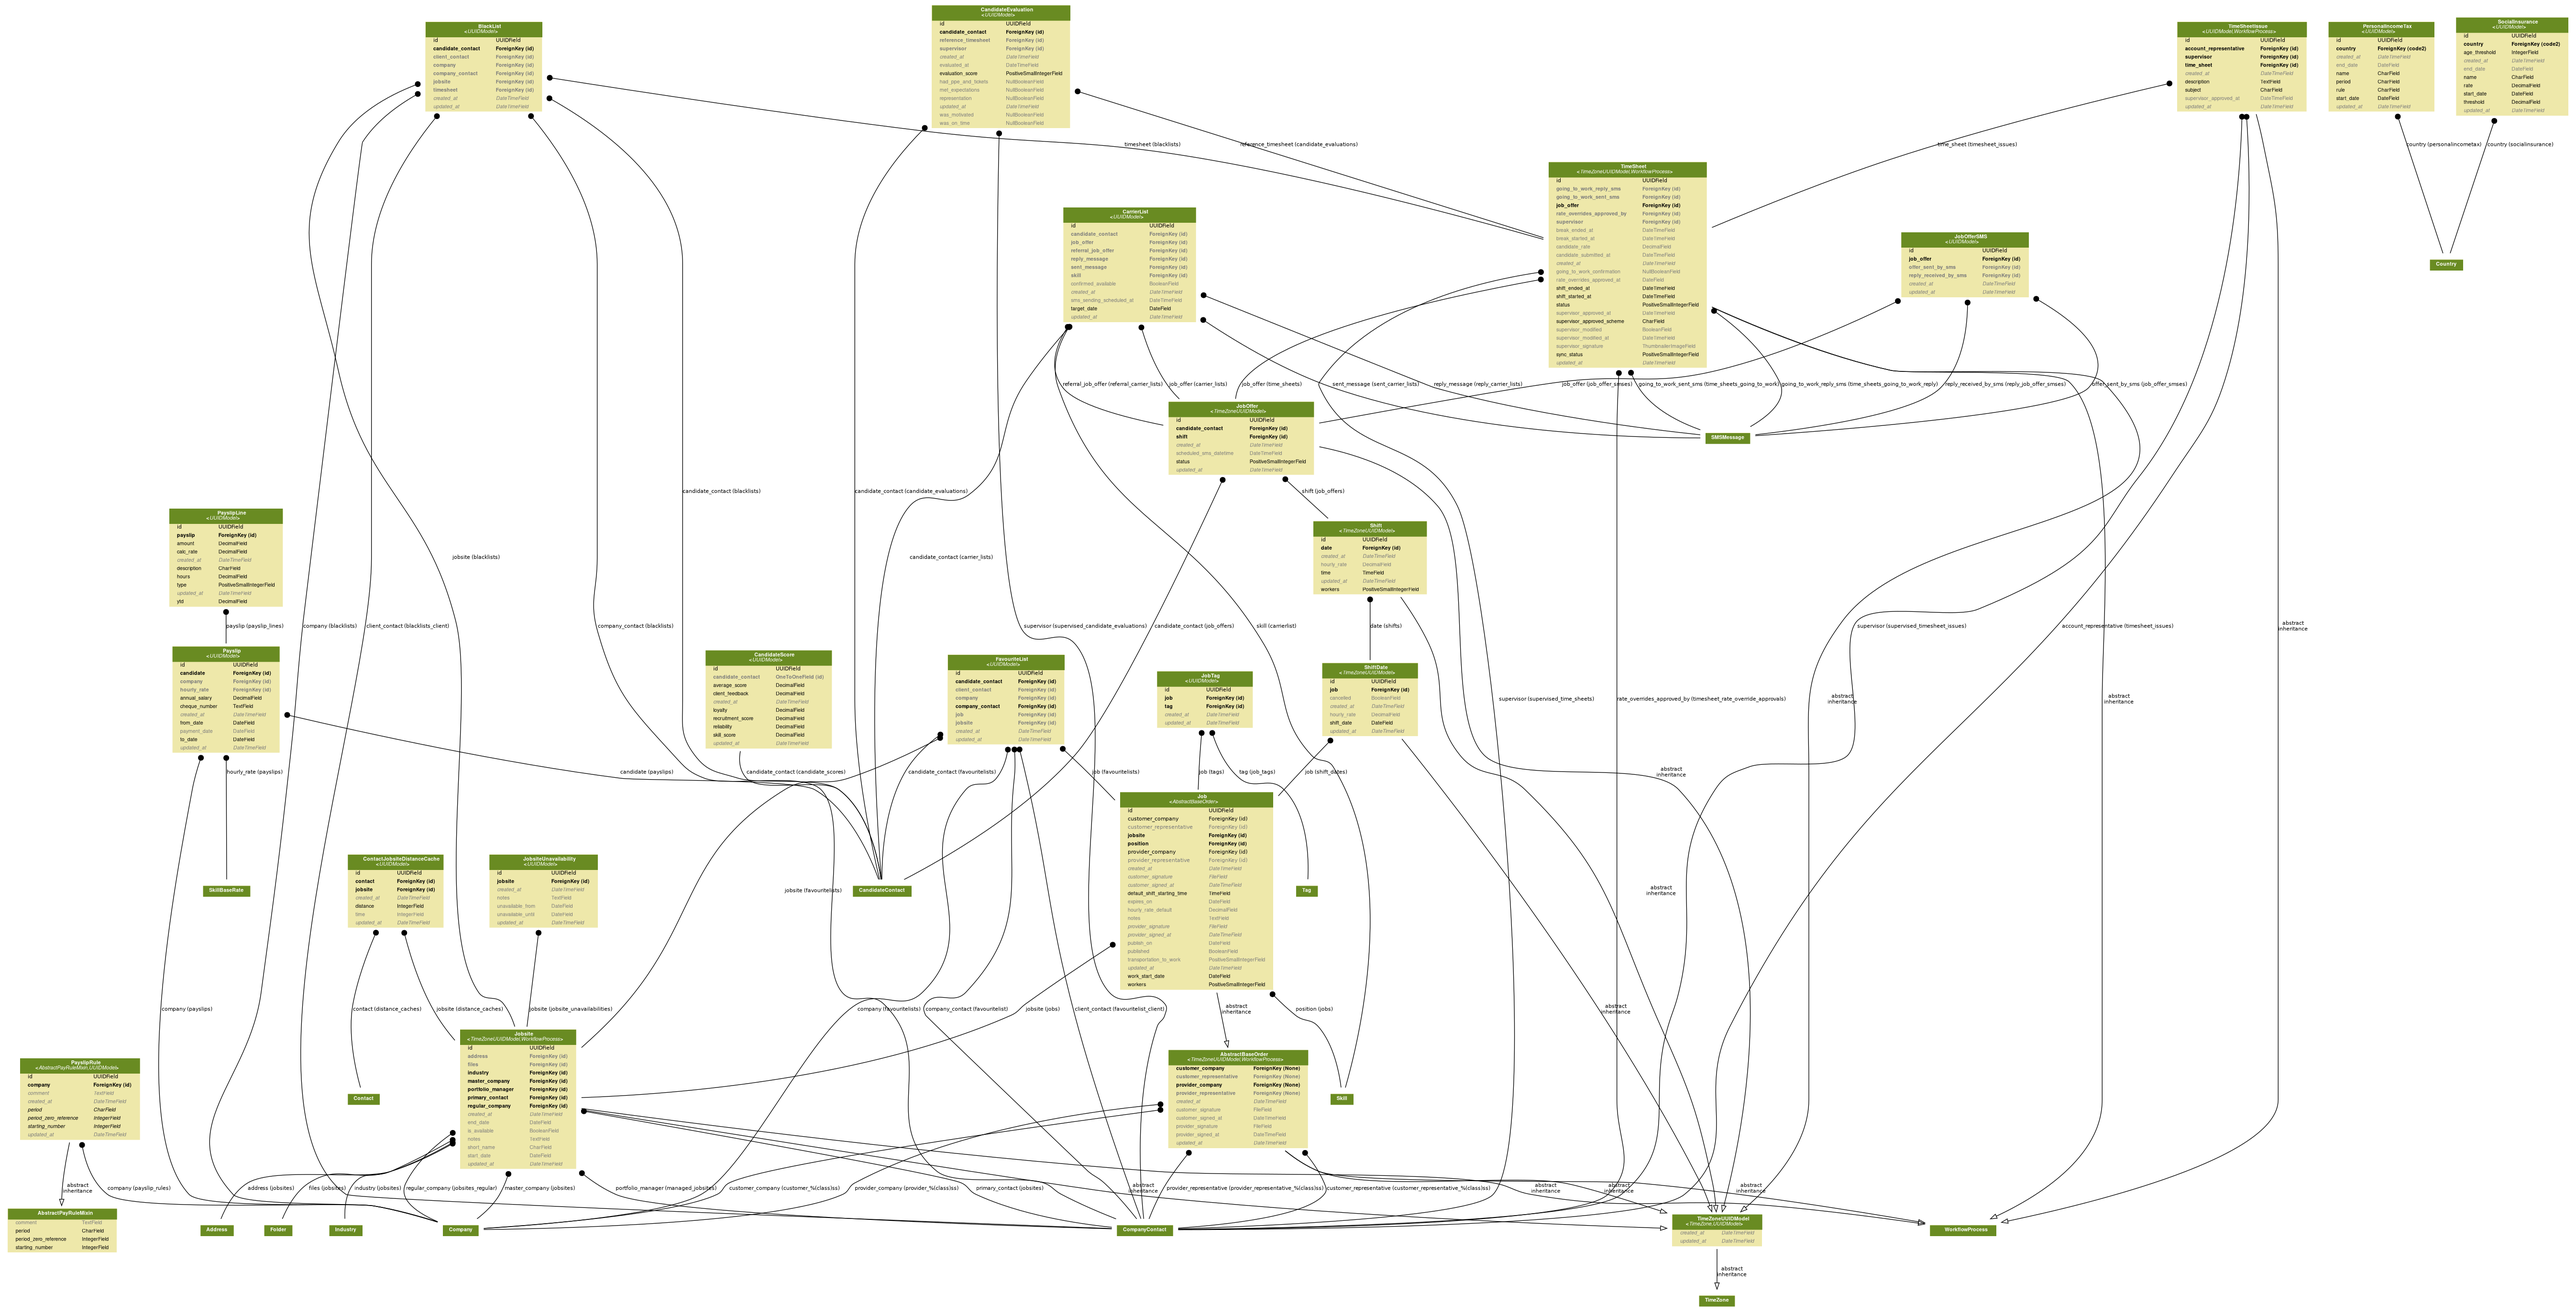
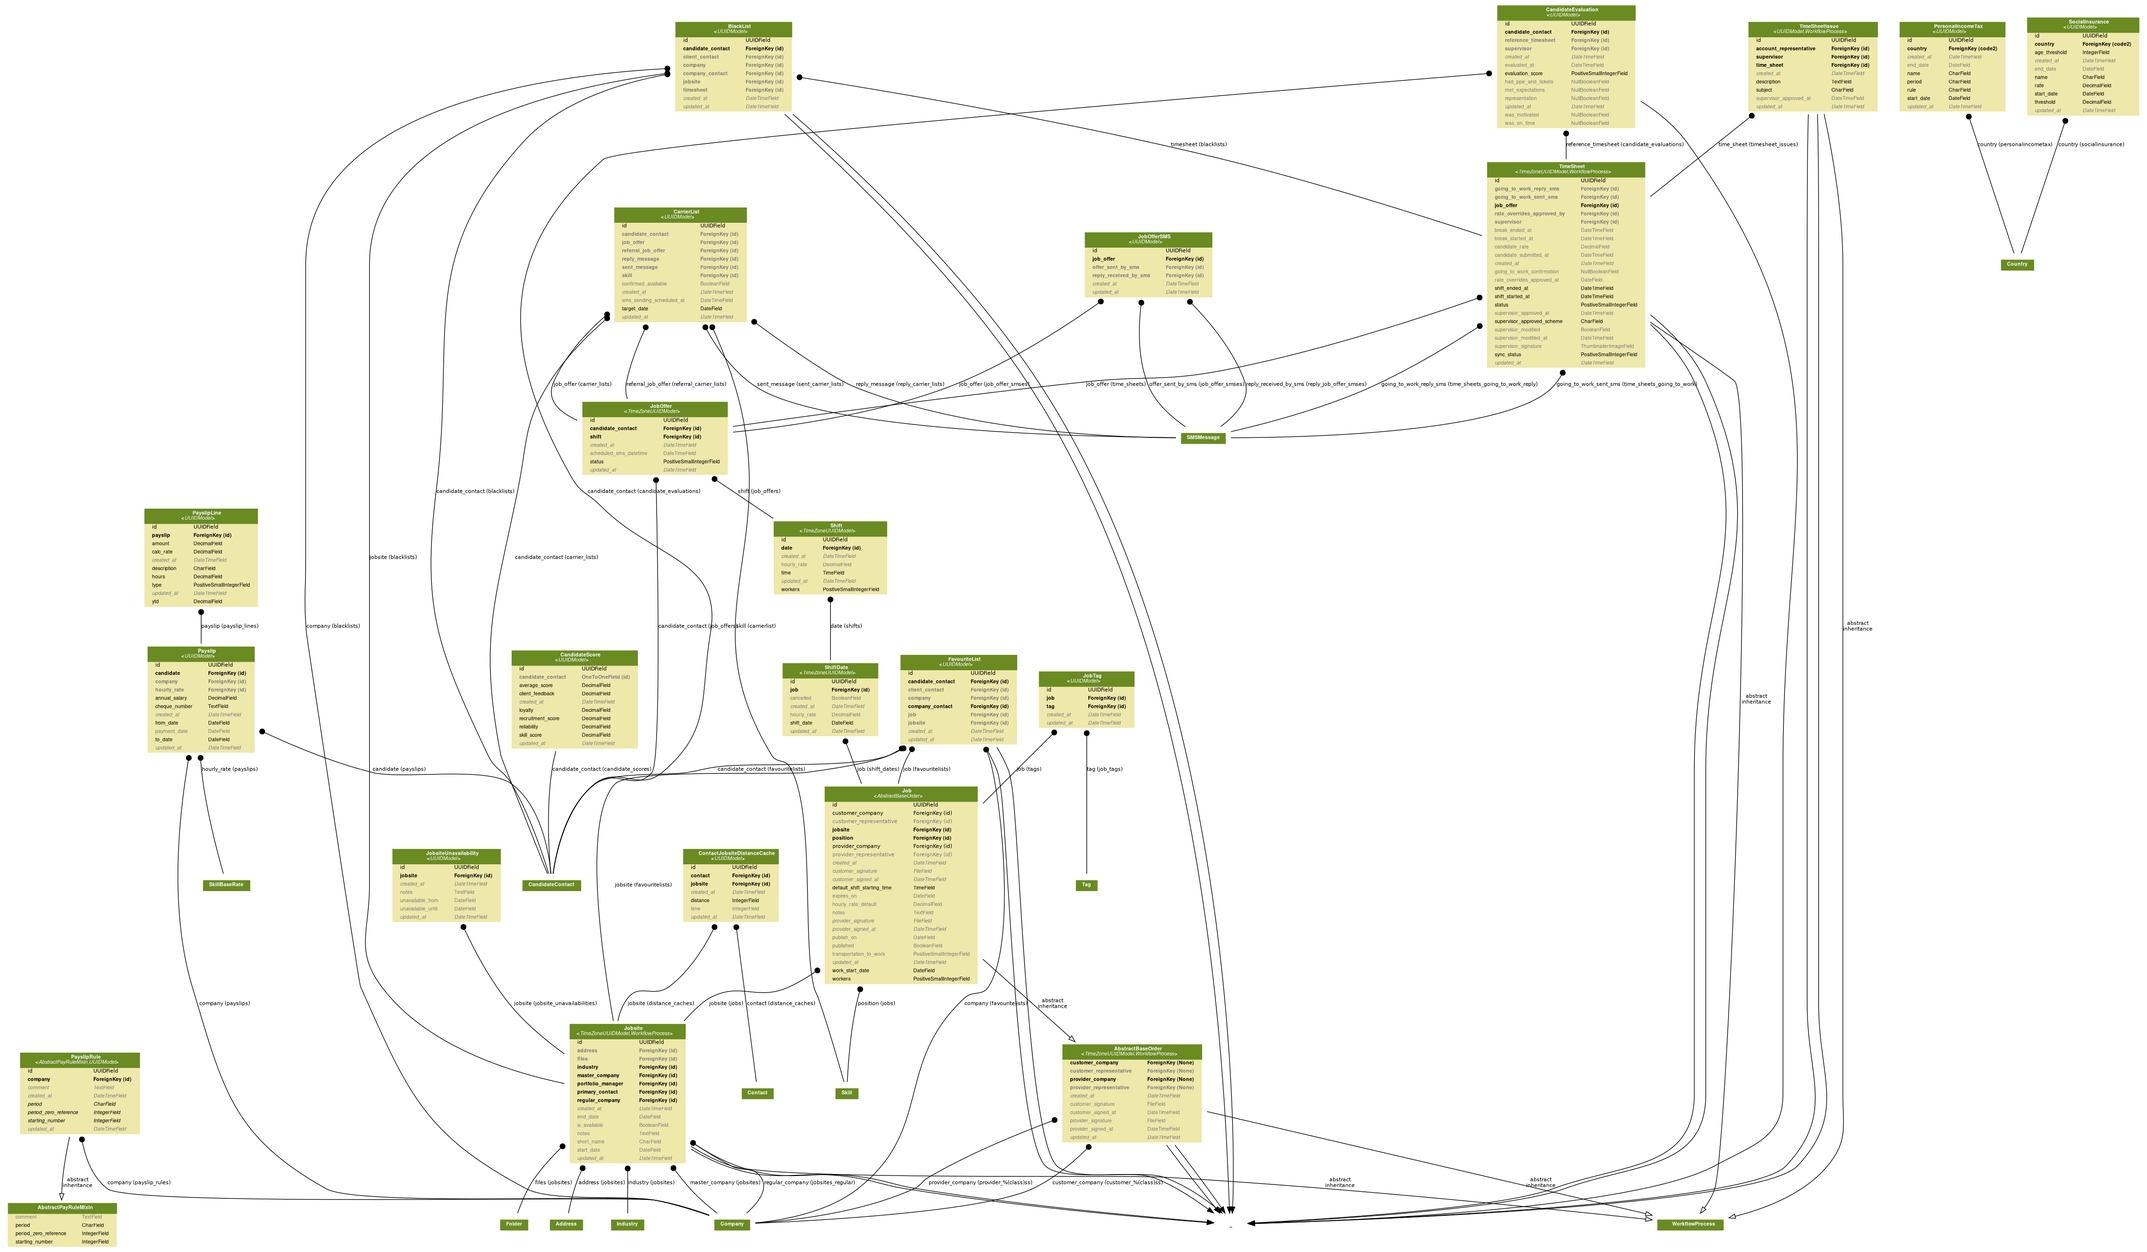
RV-1036 HR app changes

diff --git a/r3sourcer/apps/hr/api/serializers/job.py b/r3sourcer/apps/hr/api/serializers/job.py
@@ -159,7 +159,7 @@ class JobSerializer(core_mixins.WorkflowStatesColumnMixin, core_serializers.ApiB
                     'address': ['__all__'],
                 }],
                 'position': ['id', {'name': ('name', {'translations': ('language', 'value')})},
-                             'upper_rate_limit', 'lower_rate_limit', 'default_rate'],
+                             {'skill_rate_ranges': ('id', 'uom', 'upper_rate_limit', 'lower_rate_limit', 'default_rate')}],
             }
         )
 
@@ -225,31 +225,31 @@ class JobSerializer(core_mixins.WorkflowStatesColumnMixin, core_serializers.ApiB
 
         return current_state and current_state.number == 20
 
-    def validate(self, validated_data):
-        hourly_rate_default = validated_data.get('hourly_rate_default')
+    # def validate(self, validated_data):
+    #     hourly_rate_default = validated_data.get('hourly_rate_default')
 
-        if hourly_rate_default:
-            skill = validated_data.get('position')
-            is_less_than_min = skill.lower_rate_limit and skill.lower_rate_limit > hourly_rate_default
-            is_more_than_max = skill.upper_rate_limit and skill.upper_rate_limit < hourly_rate_default
+    #     if hourly_rate_default:
+    #         skill = validated_data.get('position')
+    #         is_less_than_min = skill.lower_rate_limit and skill.lower_rate_limit > hourly_rate_default
+    #         is_more_than_max = skill.upper_rate_limit and skill.upper_rate_limit < hourly_rate_default
 
-            if is_less_than_min or is_more_than_max:
-                if is_less_than_min and is_more_than_max:
-                    error_part = _('between {lower} and {upper}')
-                elif is_less_than_min:
-                    error_part = _('more than or equal {lower}')
-                else:
-                    error_part = _('less than or equal {upper}')
+    #         if is_less_than_min or is_more_than_max:
+    #             if is_less_than_min and is_more_than_max:
+    #                 error_part = _('between {lower} and {upper}')
+    #             elif is_less_than_min:
+    #                 error_part = _('more than or equal {lower}')
+    #             else:
+    #                 error_part = _('less than or equal {upper}')
 
-                error_part = error_part.format(
-                    lower=skill.lower_rate_limit, upper=skill.upper_rate_limit
-                )
+    #             error_part = error_part.format(
+    #                 lower=skill.lower_rate_limit, upper=skill.upper_rate_limit
+    #             )
 
-                raise exceptions.ValidationError({
-                    'hourly_rate_default': _('Hourly rate should be {error_part}').format(error_part=error_part)
-                })
+    #             raise exceptions.ValidationError({
+    #                 'hourly_rate_default': _('Hourly rate should be {error_part}').format(error_part=error_part)
+    #             })
 
-        return validated_data
+    #     return validated_data
 
     def get_tags(self, obj):
         tags = core_models.Tag.objects.filter(job_tags__job=obj).distinct()
@@ -499,7 +499,7 @@ class JobFillinSerialzier(FillinAvailableMixin, core_serializers.ApiBaseModelSer
 
     method_fields = (
         'available', 'days_from_last_timesheet', 'distance_to_jobsite', 'time_to_jobsite', 'count_timesheets',
-        'hourly_rate', 'color', 'overpriced', 'favourite', 'tags',
+        'hourly_rate', 'color', 'favourite', 'tags',    # 'overpriced',
     )
 
     jos = serializers.IntegerField(read_only=True)
@@ -542,16 +542,16 @@ class JobFillinSerialzier(FillinAvailableMixin, core_serializers.ApiBaseModelSer
     def get_favourite(self, obj):
         return obj.id in self.context['favourite_list']
 
-    def get_overpriced(self, obj):
-        return obj.id in self.context['overpriced']
+    # def get_overpriced(self, obj):
+    #     return obj.id in self.context['overpriced']
 
     def get_color(self, obj):
         is_partially_avail = obj.id in self.context['partially_available_candidates']
-        if self.get_overpriced(obj):
-            if is_partially_avail:
-                return 5
-            return 3
-        elif is_partially_avail:
+        # if self.get_overpriced(obj):
+        #     if is_partially_avail:
+        #         return 5
+        #     return 3
+        if is_partially_avail:
             return 4
         elif obj.id in self.context['carrier_list'] or obj.id in self.context['booked_before_list']:
             if obj.jos > 0:

diff --git a/r3sourcer/apps/hr/api/viewsets.py b/r3sourcer/apps/hr/api/viewsets.py
@@ -564,29 +564,46 @@ class JobViewset(BaseApiViewset):
         if search_term:
             candidate_contacts = self.search_candidate_contacts(candidate_contacts, search_term)
 
-        # do:
-        # filter overpriced candidates
-        overpriced = request.GET.get('overpriced', 'False') == 'True'
-        overpriced_candidates = []
-        if job.position.default_rate:
-            overpriced_qry = Q(
-                candidate_skills__skill=job.position,
-                candidate_skills__score__gt=0
-            )
-            hourly_rate = job.position.default_rate
-            overpriced_candidates = candidate_contacts.filter(
-                overpriced_qry,
-                candidate_skills__hourly_rate__gt=hourly_rate,
-            ).values_list('id', flat=True)
+        # # filter overpriced candidates
+        # overpriced = request.GET.get('overpriced', 'False') == 'True'
+        # overpriced_candidates = []
+        # skill_rate_range = job.position.skill_rate_ranges.all()
+        # if skill_rate_range:
 
-            if not overpriced:
-                candidate_contacts = candidate_contacts.filter(
-                    overpriced_qry,
-                    candidate_skills__hourly_rate__lte=hourly_rate,
-                )
-        # end
+        #     overpriced_qry = Q(
+        #         candidate_skills__skill=job.position,
+        #         candidate_skills__score__gt=0
+        #     )
+        #     rate = job.position.default_rate
+        #     overpriced_candidates = candidate_contacts.filter(
+        #         overpriced_qry,
+        #         candidate_skills__rate__gt=rate,
+        #     ).values_list('id', flat=True)
 
-        # do:
+        #     if not overpriced:
+        #         candidate_contacts = candidate_contacts.filter(
+        #             overpriced_qry,
+        #             candidate_skills__rate__lte=rate,
+        #         )
+        # # end
+
+        # # filter partially available
+        # uom_ids = request.query_params.getlist('shifts')
+        # uom_candidates = {}
+        # if single_shifts:
+        #     partially_available_candidates = job_utils.get_partially_available_candidates(
+        #         candidate_contacts, single_shifts
+        #     )
+
+        #     if not partially_available:
+        #         candidate_contacts = candidate_contacts.exclude(
+        #             id__in=partially_available_candidates.keys()
+        #         )
+        #     else:
+        #         for r_id, data in partially_available_candidates.items():
+        #             data['shifts'] = [shift for shift in single_shifts if shift.id in data['shifts']]
+        # # end
+
         # filter partially available
         partially_available = request.GET.get('available', 'False') == 'True'
         partially_available_candidates = {}
@@ -686,7 +703,7 @@ class JobViewset(BaseApiViewset):
 
         context = {
             'partially_available_candidates': partially_available_candidates,
-            'overpriced': overpriced_candidates,
+            # 'overpriced': overpriced_candidates,
             'job': job,
             'favourite_list': favourite_list,
             'booked_before_list': booked_before_list,
@@ -701,7 +718,7 @@ class JobViewset(BaseApiViewset):
             '__str__': str(job),
             'jobsite': str(job.jobsite),
             'position': str(job.position),
-            'default_rate': job.position.default_rate,
+            # 'default_rate': job.position.default_rate,
         }
         if jobsite_address:
             job_ctx.update({

diff --git a/r3sourcer/apps/myob/services/timesheet.py b/r3sourcer/apps/myob/services/timesheet.py
@@ -363,12 +363,12 @@ class TimeSheetSync(BaseCategoryMixin,
                 str(skill_name),
                 str(shift.date.hourly_rate)
             ), shift.date.hourly_rate
-        if job.hourly_rate_default:
-            name = '{} {}'.format(
-                str(job.position.get_myob_name()),
-                str(job.hourly_rate_default)
-            )
-            base_rate = job.hourly_rate_default
+        # if job.hourly_rate_default:
+        #     name = '{} {}'.format(
+        #         str(job.position.get_myob_name()),
+        #         str(job.hourly_rate_default)
+        #     )
+        #     base_rate = job.hourly_rate_default
 
         if name is None:
             candidate_skill_rate = SkillRel.objects.filter(
@@ -377,7 +377,7 @@ class TimeSheetSync(BaseCategoryMixin,
                 skill=job.position,
             ).first()
             name = candidate_skill_rate and candidate_skill_rate.get_myob_name()
-            base_rate = candidate_skill_rate.hourly_rate if candidate_skill_rate else 0
+            base_rate = candidate_skill_rate.rate if candidate_skill_rate else 0
         return name, base_rate
 
     def _get_base_rate_wage_category(self, name, timesheet, rate=None, base_rate=None):

diff --git a/r3sourcer/apps/myob/services/candidate.py b/r3sourcer/apps/myob/services/candidate.py
@@ -159,9 +159,9 @@ class CandidateSync(BaseCategoryMixin,
         for payroll_wage_cat in payroll_details['Wage']['WageCategories']:
             wage_categories.add(payroll_wage_cat['UID'])
 
-        candidate_skill_rate = candidate_contact.candidate_skills.all().order_by('-hourly_rate').first()
+        candidate_skill_rate = candidate_contact.candidate_skills.all().order_by('-rate').first()
 
-        base_hourly_rate = candidate_skill_rate and candidate_skill_rate.hourly_rate
+        base_rate = candidate_skill_rate and candidate_skill_rate.rate
 
         data = self.mapper.map_extra_info(
             candidate_contact,
@@ -171,7 +171,7 @@ class CandidateSync(BaseCategoryMixin,
             tax_table=tax_table,
             withholding_rate=withholding_rate,
             superannuation_category=superannuation_category,
-            base_hourly_rate=base_hourly_rate
+            base_hourly_rate=base_rate
         )
         data = self._get_data_to_update(payroll_details, data, deep=True)
 

diff --git a/r3sourcer/apps/hr/models.py b/r3sourcer/apps/hr/models.py
@@ -341,6 +341,7 @@ class Job(core_models.AbstractBaseOrder):
         blank=True
     )
 
+    # TODO delete this field after uoms task finished
     hourly_rate_default = models.DecimalField(
         decimal_places=2,
         max_digits=16,
@@ -465,10 +466,10 @@ class Job(core_models.AbstractBaseOrder):
         return bool(self.work_start_date)
     is_start_date_set.short_description = _('Work Start Date')
 
-    @workflow_function
-    def is_default_rate_set(self):
-        return self.hourly_rate_default is not None or self.hourly_rate_default <= 0
-    is_default_rate_set.short_description = _('Default hourly rate')
+    # @workflow_function
+    # def is_default_rate_set(self):
+    #     return self.hourly_rate_default is not None or self.hourly_rate_default <= 0
+    # is_default_rate_set.short_description = _('Default hourly rate')
 
     @workflow_function
     def is_all_sd_filled(self):

diff --git a/r3sourcer/apps/hr/payment/invoices.py b/r3sourcer/apps/hr/payment/invoices.py
@@ -61,7 +61,7 @@ class InvoiceService(BasePaymentService):
 
             lines_iter = self.lines_iter(coeffs_hours,
                                          skill,
-                                         price_list_rate.hourly_rate,
+                                         price_list_rate.rate,
                                          timesheet)
             for raw_line in lines_iter:
                 rate = raw_line['rate']
